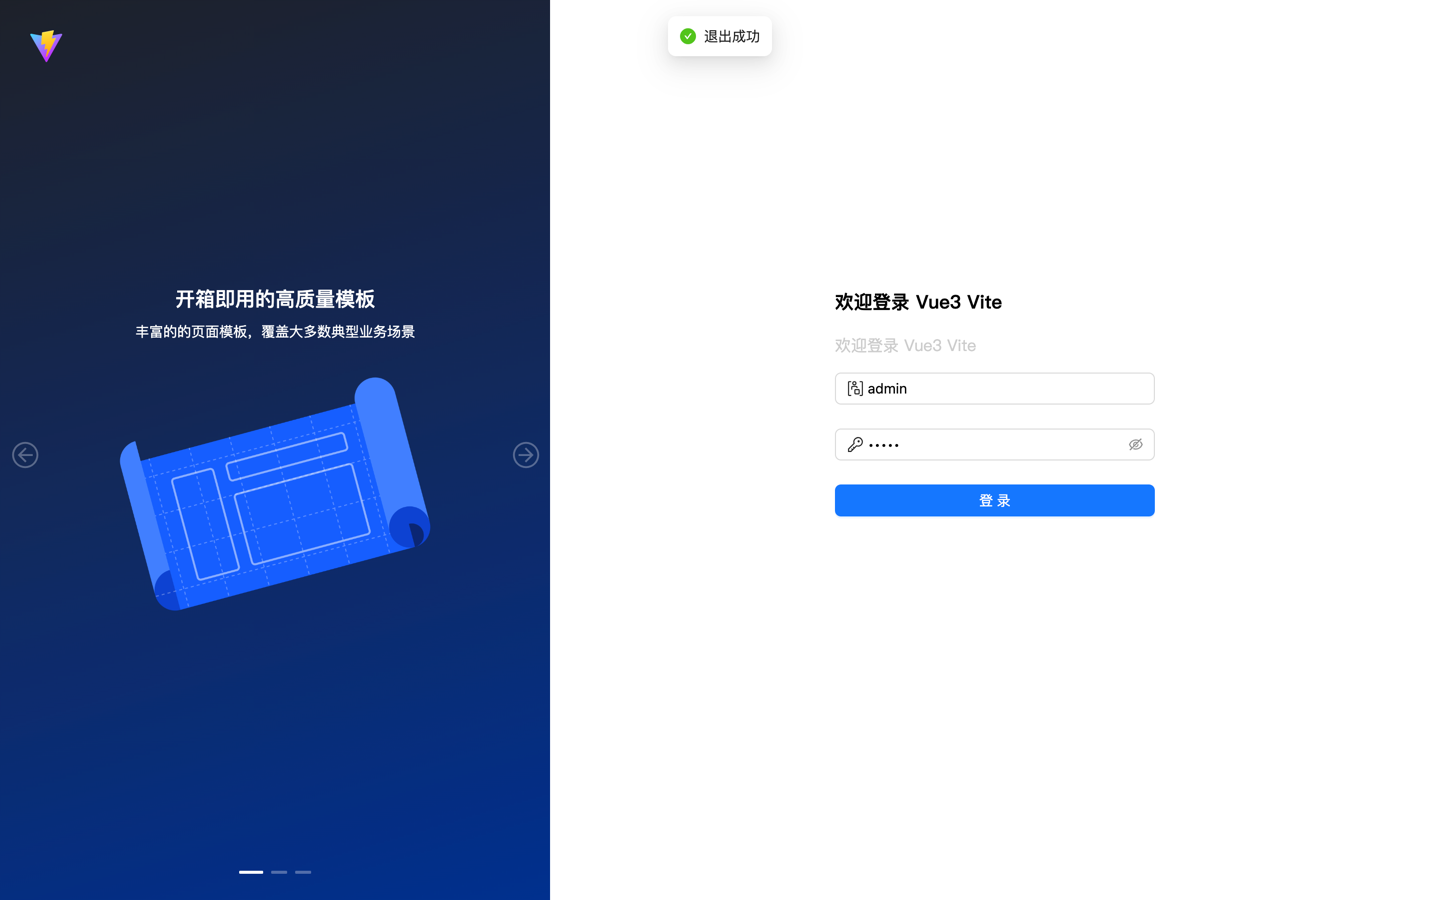
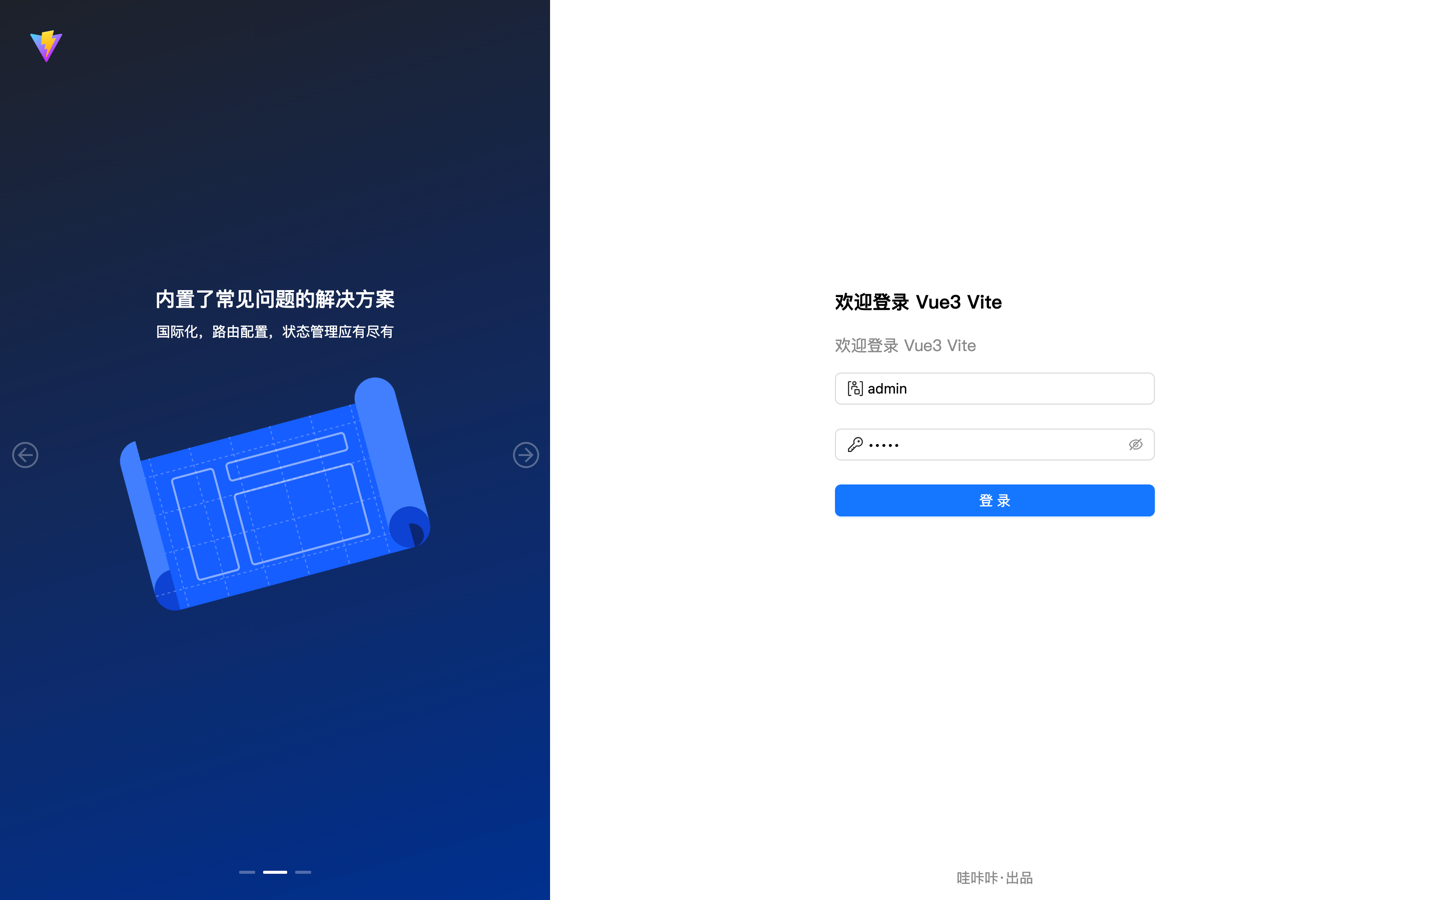
feat: Footer

diff --git a/src/pages/login/components/login-form.vue b/src/pages/login/components/login-form.vue
@@ -1,12 +1,29 @@
 <script setup>
+  import Footer from '@/components/Footer/index.vue'
+  import { ref } from 'vue'
   import config from '@/config/index.js'
   import { message } from 'ant-design-vue'
   import { useRouter } from 'vue-router'
 
+  const rulesLogin = {
+    username: [{ required: true, message: '请输入用户名！' }],
+    password: [{ required: true, message: '请输入用户密码！' }]
+  }
+
+  const loginRef = ref()
+  const loginForm = ref({ username: '', password: '' })
+
   const router = useRouter()
   const handleLogin = () => {
-    message.success('登录成功')
-    router.push({ path: '/' })
+    loginRef.value.validate().then(({ username, password }) => {
+      if (password !== 'admin' || username !== 'admin') {
+        message.error('账号或密码不正确！')
+        return
+      }
+
+      message.success('登录成功')
+      router.push({ path: '/' })
+    })
   }
 </script>
 
@@ -15,16 +32,26 @@
     <div class="login_form_content">
       <h3 class="login_title">欢迎登录 {{ config.title }}</h3>
       <p class="sub_title">欢迎登录 {{ config.title }}</p>
-      <a-form>
-        <a-form-item>
-          <a-input placeholder="用户名：admin">
+      <a-form
+        ref="loginRef"
+        :model="loginForm"
+        :rules="rulesLogin"
+      >
+        <a-form-item name="username">
+          <a-input
+            v-model:value="loginForm.username"
+            placeholder="用户名：admin"
+          >
             <template #prefix>
               <i class="i-carbon-group-account inline-block" />
             </template>
           </a-input>
         </a-form-item>
-        <a-form-item>
-          <a-input-password placeholder="密码：admin">
+        <a-form-item name="password">
+          <a-input-password
+            v-model:value="loginForm.password"
+            placeholder="密码：admin"
+          >
             <template #prefix>
               <i class="i-carbon-password inline-block" />
             </template>
@@ -38,6 +65,9 @@
       >
         登录
       </a-button>
+    </div>
+    <div class="form_footer">
+      <Footer />
     </div>
   </div>
 </template>
@@ -58,6 +88,13 @@
 
   .sub_title {
     font-size: 16px;
-    color: #ccc;
+    color: #888888;
+  }
+
+  .form_footer {
+    position: absolute;
+    left: 0;
+    bottom: 0;
+    width: 100%;
   }
 </style>

diff --git a/src/components/Footer/index.vue b/src/components/Footer/index.vue
@@ -1,0 +1,19 @@
+<script setup>
+
+</script>
+
+<template>
+  <div class="footer">
+    哇咔咔·出品
+  </div>
+</template>
+
+<style scoped lang="less">
+  .footer {
+    width: 100%;
+    text-align: center;
+    line-height: 44px;
+    color: #888888;
+    font-size: 14px;
+  }
+</style>

diff --git a/README.md b/README.md
@@ -31,6 +31,7 @@
 ![img.png](public/img.png)
 ![img.png](public/img1.png)
 ![img.png](public/img2.png)
+![img.png](public/img3.png)
 
 ### 路由配置
 
